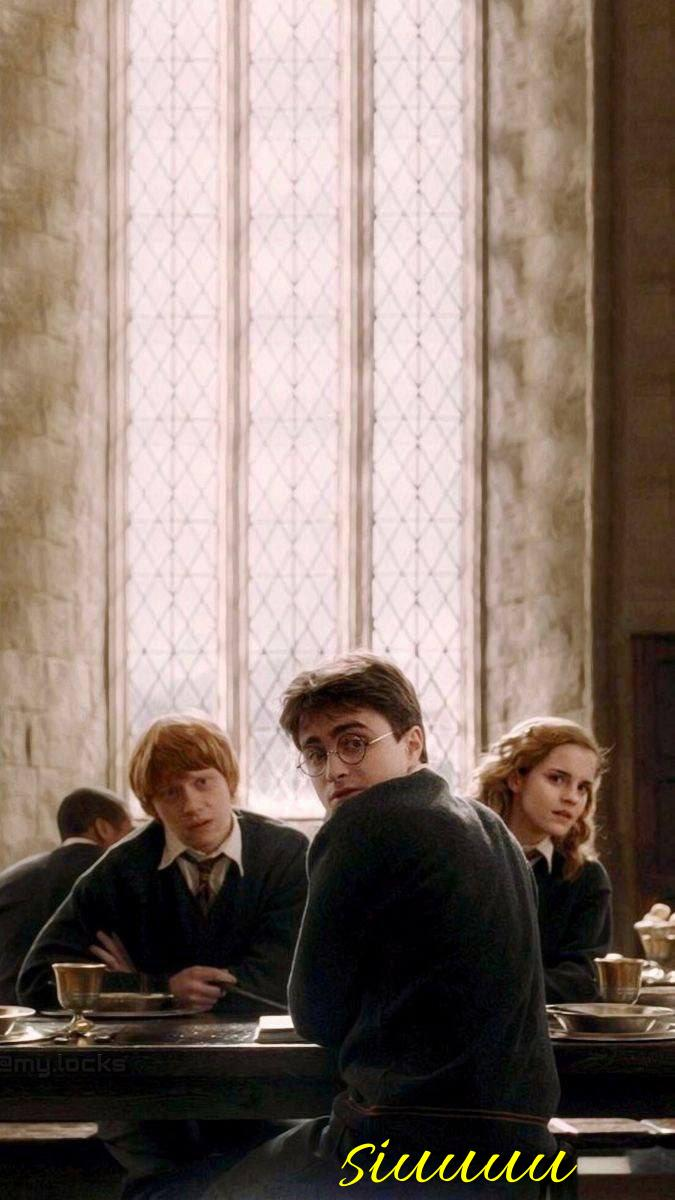
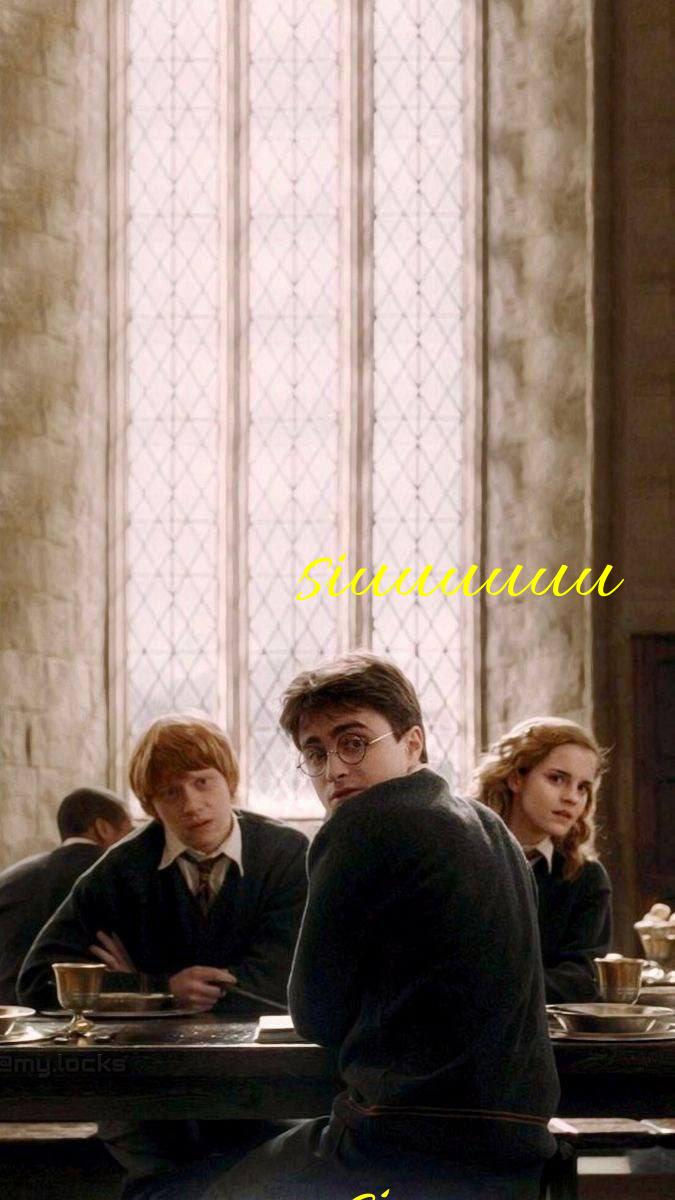
Updated

Changed region(s): [[0.4356, 0.4625, 0.9333, 0.5242], [0.4978, 0.9558, 0.84, 1.0]]

diff --git a/handlers/users/detectors.py b/handlers/users/detectors.py
@@ -67,20 +67,23 @@ def detect_shrift_ttf(ttf):
         return ttf
 
 def detect_place(place, x, y, text_size):
-    if place == 'center':
-        x = (x.width - text_size[2]) / 2
-        y = (y.height - text_size[2]) / 2
+    if place == 'left':
+        x = ((x.width - text_size[2]) / 2) - text_size[0]
+        y = (y.height - text_size[2]) / 2 - text_size[0]
         return x, y
-    elif place == 'top_center':
+    elif place == 'bottom_center':
         x = x.width / 2
         y = y.height - text_size[0]
         return x, y
-    # elif place == 'top_right':
-    #     new_place = "media/ostrich.otf"
-    #     return new_place
-    # elif place == 'left':
-    #     new_place = "media/Quicksand-Light.otf"
-    #     return new_place
-    # elif place == 'center':
-    #     new_place = "media/Quicksand_Dash.otf"
-    #     return new_place
+    elif place == 'center':
+        x = x.width / 2 - text_size[3]
+        y = y.height / 2 - text_size[1]
+        return x, y
+    elif place == 'top_center':
+        x = (x.width / 2) - text_size[0]
+        y = (y.height / 2) - text_size[2]
+        return x, y
+    elif place == 'right':
+        x = x.width - text_size[2]
+        y = (y.height / 2) - text_size[1]
+        return x, y

diff --git a/handlers/users/makestatus.py b/handlers/users/makestatus.py
@@ -54,7 +54,7 @@ async def state_status(message: types.Message, state: FSMContext):
     draw = ImageDraw.Draw(img)
 
     font = ImageFont.truetype(detect_shrift_ttf(ttf=text_shrift), text_size)
-    text_size = draw.textbbox((100, 100), status, font=font)
+    text_size = draw.textbbox((50, 50), status, font=font)
 
     x_sample = img
     y_sample = img
@@ -62,7 +62,7 @@ async def state_status(message: types.Message, state: FSMContext):
     detector = detect_place(place=text_place, x=x_sample, y=y_sample, text_size=text_size)
     x = detector[0]
     y = detector[1]
-    print(detector)
+    print(detector, text_size)
 
     draw.text((x, y), status, font=font, fill=text_color)
     img.save("media/results.jpg")
